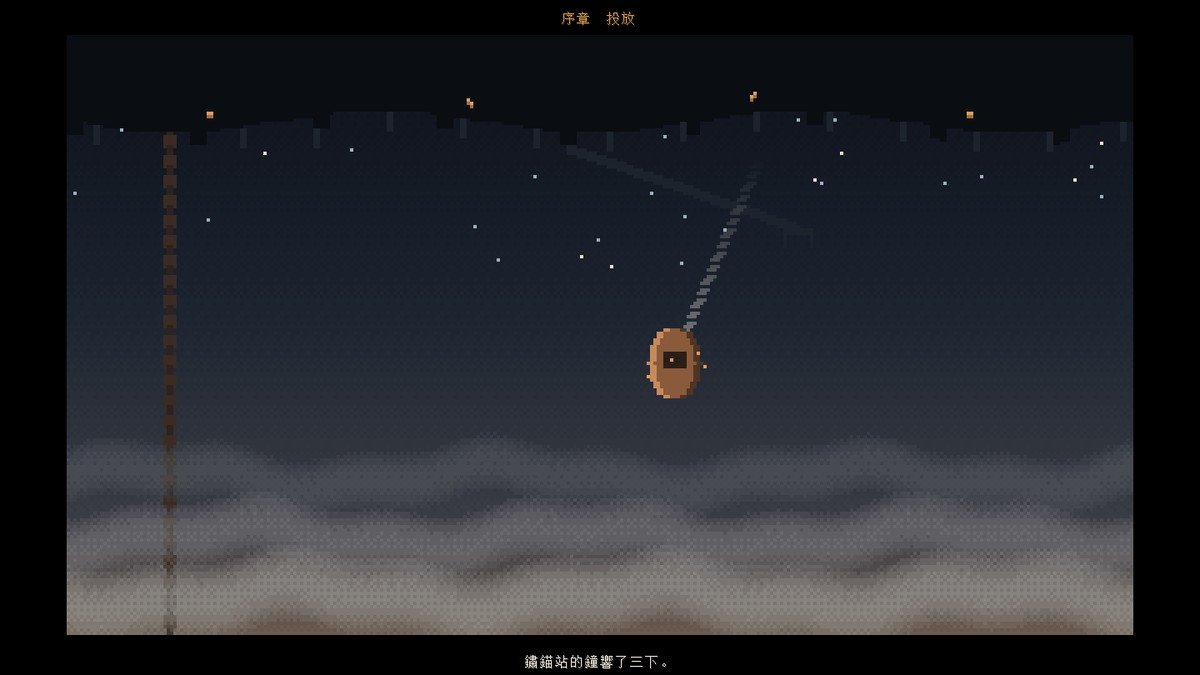
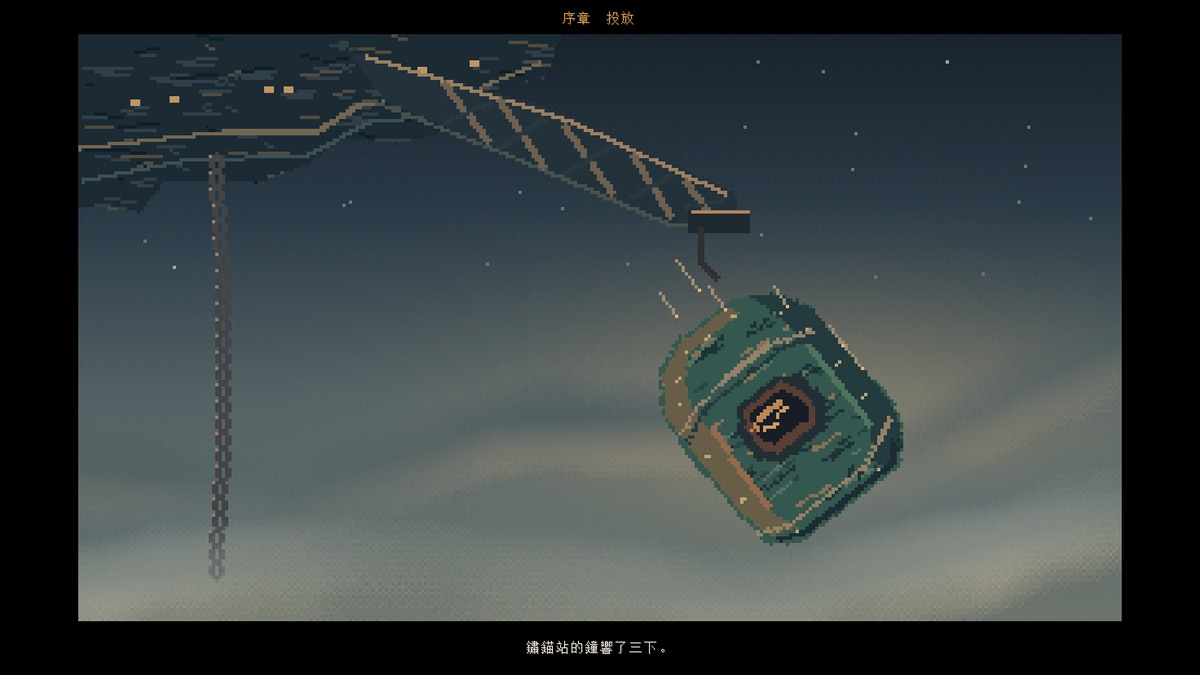
style: 重繪主選單、劇情圖卡與霧宿字標
原先霧岸的燈塔和投放艙主要靠剪影辨認，主選單與故事卡裡的材質細節較少。
這次把霧岸岩層、鏽銅和金鐘畫進同一套像素畫面，讓序章到第一章結尾的場景接得起來。

- 重畫霧岸、燈塔、鏽錨和水面，保留海霧視差與燈室餘燼，補足滑鼠移到邊緣時的畫面覆蓋。
- 重畫「投放」、「熄燈」與第一章結尾的三張圖卡，以及無線電的四張貼圖。
- 重新繪製中英文字標，更新自述文件的亮暗主題圖片、主選單和劇情實機照片。

diff --git a/src/client/java/life/shizune/mistinn/client/title/ShoreBackdrop.java b/src/client/java/life/shizune/mistinn/client/title/ShoreBackdrop.java
@@ -24,9 +24,9 @@ public final class ShoreBackdrop {
 	private static final Identifier FOG_NEAR = tex("fog_near");
 	private static final Identifier SHORE = tex("shore");
 	/** The dead lamp room's glass, in art pixels. */
-	private static final int LAMP_X = 389;
-	private static final int LAMP_Y = 17;
-	private static final int MOTES = 46;
+	private static final int LAMP_X = 364;
+	private static final int LAMP_Y = 67;
+	private static final int MOTES = 28;
 
 	private ShoreBackdrop() {
 	}
@@ -37,13 +37,14 @@ public final class ShoreBackdrop {
 
 	/** Draws the shore over the whole screen; {@code leftMist} thickens the mist behind a menu on the left. */
 	public static void draw(final GuiGraphicsExtractor g, final int width, final int height, final int mouseX, final int mouseY, final float time, final boolean leftMist) {
-		float scale = Math.max((float) width / ART_W, (float) height / ART_H);
+		// Leave room for the nearest fog, which can shift eleven pixels sideways and six vertically.
+		float scale = Math.max((width + 22.0F) / ART_W, (height + 12.0F) / ART_H);
 		int w = Mth.ceil(ART_W * scale);
 		int h = Mth.ceil(ART_H * scale);
 		int ox = (width - w) / 2;
 		int oy = (height - h) / 2;
-		float lookX = (mouseX - width / 2.0F) / Math.max(1, width);
-		float lookY = (mouseY - height / 2.0F) / Math.max(1, height);
+		float lookX = Mth.clamp(mouseX / (float) Math.max(1, width) - 0.5F, -0.5F, 0.5F);
+		float lookY = Mth.clamp(mouseY / (float) Math.max(1, height) - 0.5F, -0.5F, 0.5F);
 
 		layer(g, SKY, ox, oy, w, h, 0.0F, lookX, lookY);
 		layer(g, CLIFF, ox, oy, w, h, 4.0F, lookX, lookY);
@@ -97,9 +98,10 @@ public final class ShoreBackdrop {
 		int alpha = Mth.clamp((int) (flicker * 200), 20, 230);
 		int x = ox + Math.round(LAMP_X * scale) + Math.round(-lookX * 4.0F);
 		int y = oy + Math.round(LAMP_Y * scale) + Math.round(-lookY * 2.0F);
-		int size = Math.max(2, Math.round(3 * scale));
-		g.fill(x + size, y + size / 2, x + size * 2, y + size + size / 2, alpha << 24 | 0xE89040);
-		g.fill(x + size / 2, y, x + size * 2 + size / 2, y + size * 2, (alpha / 5) << 24 | 0xE89040);
+		int width = Math.max(2, Math.round(4 * scale));
+		int height = Math.max(1, Math.round(2 * scale));
+		g.fill(x - 1, y - 1, x + width + 1, y + height + 1, (alpha / 5) << 24 | 0xE89040);
+		g.fill(x, y, x + width, y + height, alpha << 24 | 0xE89040);
 	}
 
 	/** Salt motes lifting off the shore and fading as they rise. */

diff --git a/src/client/java/life/shizune/mistinn/client/title/MistinnTitleScreen.java b/src/client/java/life/shizune/mistinn/client/title/MistinnTitleScreen.java
@@ -22,6 +22,7 @@ import net.minecraft.client.renderer.RenderPipelines;
 import net.minecraft.client.resources.sounds.SimpleSoundInstance;
 import net.minecraft.network.chat.Component;
 import net.minecraft.resources.Identifier;
+import net.minecraft.util.FormattedCharSequence;
 import org.jspecify.annotations.Nullable;
 
 /**
@@ -35,7 +36,8 @@ import org.jspecify.annotations.Nullable;
 public class MistinnTitleScreen extends TitleScreen {
 	private static final Identifier WORDMARK_ZH = tex("wordmark_zh");
 	private static final Identifier WORDMARK_EN = tex("wordmark_en");
-	private static final int WORDMARK_W = 516;
+	private static final int WORDMARK_ZH_W = 516;
+	private static final int WORDMARK_EN_W = 612;
 	private static final int WORDMARK_H = 120;
 	private static final float FADE_SECONDS = 1.6F;
 
@@ -135,11 +137,18 @@ public class MistinnTitleScreen extends TitleScreen {
 		super.extractRenderState(g, mouseX, mouseY, a);
 		int x = Math.max(24, this.width / 14);
 		boolean english = this.minecraft.getLanguageManager().getSelected().startsWith("en");
-		int markW = Math.min(230, this.width / 3);
-		int markH = Math.round(markW * WORDMARK_H / (float) WORDMARK_W);
+		int textureWidth = english ? WORDMARK_EN_W : WORDMARK_ZH_W;
+		float markScale = Math.min(230, this.width / 3) / (float) WORDMARK_ZH_W;
+		int markW = Math.round(textureWidth * markScale);
+		int markH = Math.round(WORDMARK_H * markScale);
 		int markY = this.height / 2 - 26 - markH - 14;
-		g.blit(RenderPipelines.GUI_TEXTURED, english ? WORDMARK_EN : WORDMARK_ZH, x - 4, markY, 0.0F, 0.0F, markW, markH, WORDMARK_W, WORDMARK_H, WORDMARK_W, WORDMARK_H);
-		g.text(this.font, Component.translatable("title.mistinn.tagline"), x, markY + markH + 6, 0xFFB8B0A0, true);
+		g.blit(RenderPipelines.GUI_TEXTURED, english ? WORDMARK_EN : WORDMARK_ZH, x - 4, markY, 0.0F, 0.0F, markW, markH, textureWidth, WORDMARK_H, textureWidth, WORDMARK_H);
+		int taglineWidth = Math.min(this.width - x - 8, Math.max(190, this.width / 2 - x));
+		int taglineY = markY + markH + 6;
+		for (FormattedCharSequence line : this.font.split(Component.translatable("title.mistinn.tagline"), taglineWidth)) {
+			g.text(this.font, line, x, taglineY, 0xFFB8B0A0, true);
+			taglineY += this.font.lineHeight + 2;
+		}
 
 		// the screen comes up out of the dark
 		float fade = 1.0F - Math.min(1.0F, (System.nanoTime() - this.opened) / 1.0E9F / FADE_SECONDS);
